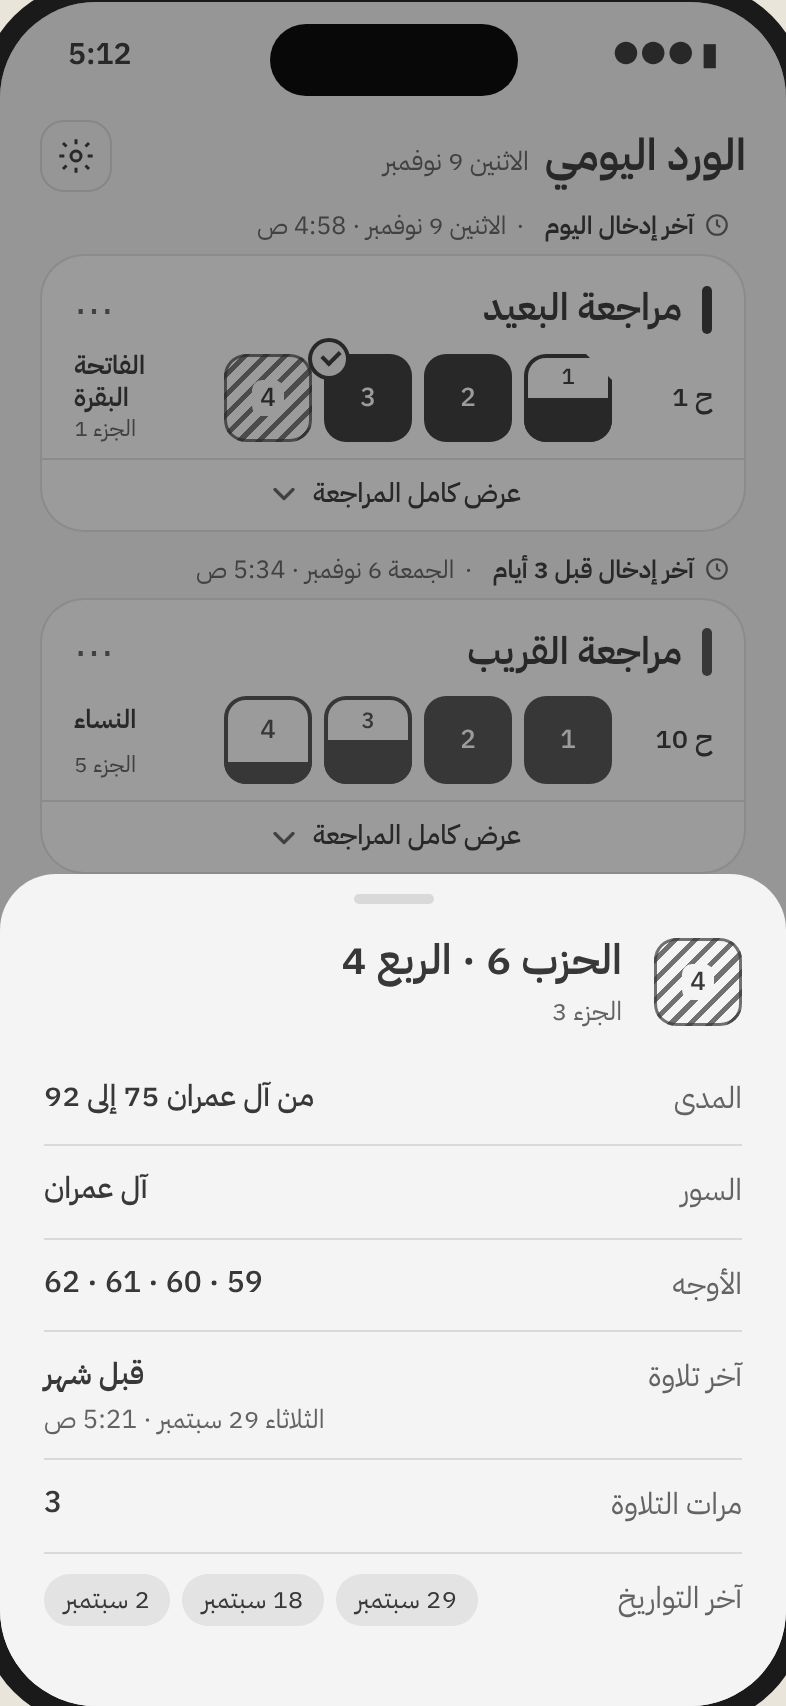
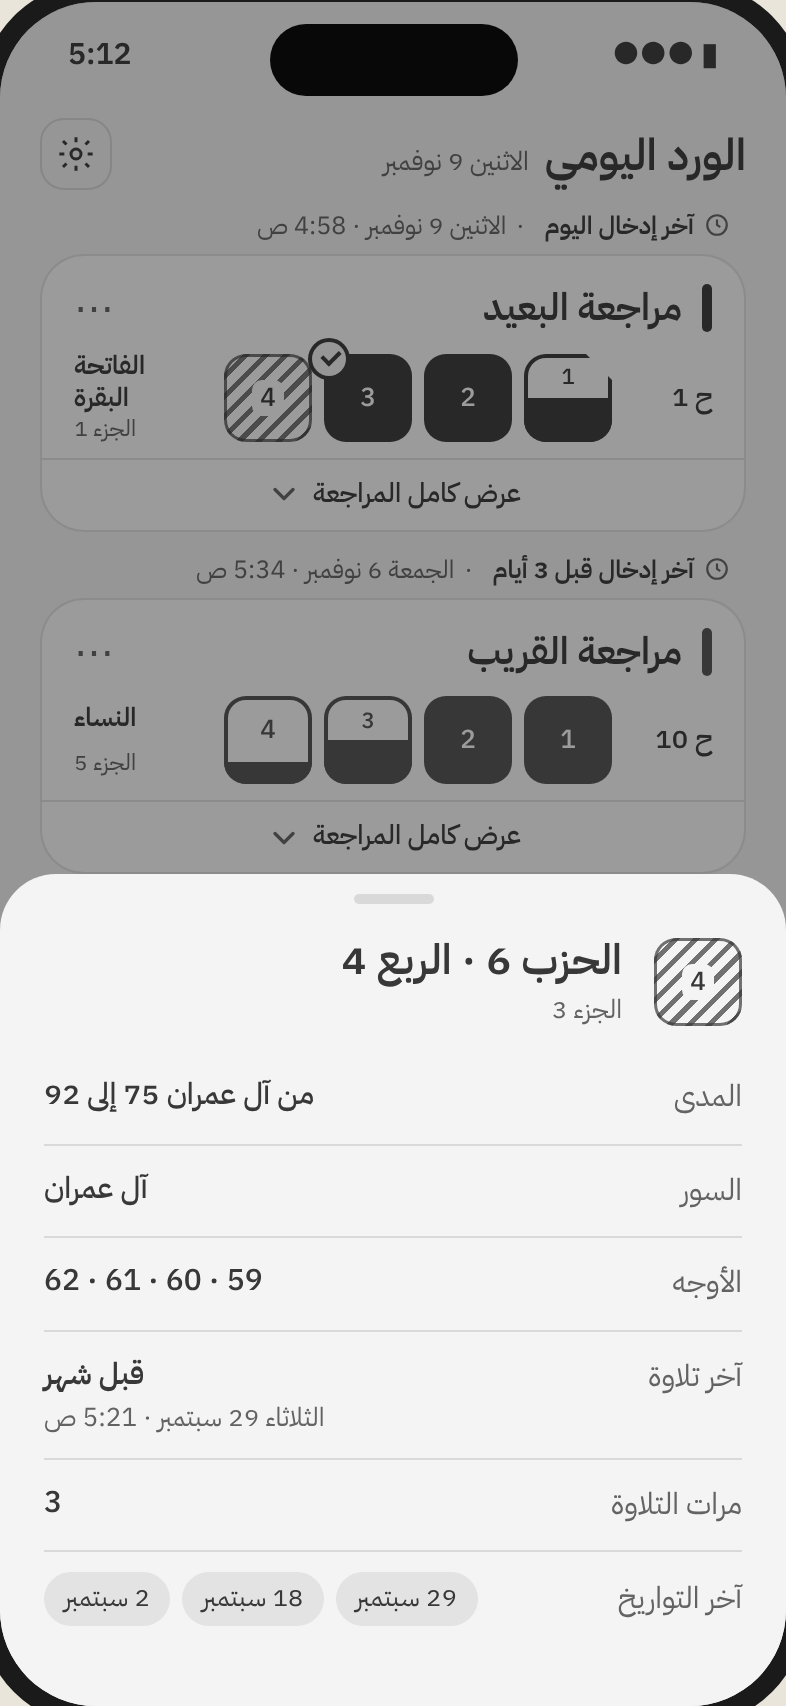
design: ذ17 حجز سطر «آخر إدخال» قبل أول إدخال (م37)
Claude-Session: https://claude.ai/code/session_01RdLZ27SMBEH2WjCpUizFQ9

diff --git a/design/s2.html b/design/s2.html
@@ -95,7 +95,7 @@ still(fig('g2',{id:'s2-ages-near',title:'7 · أرشيف القريب',cap:'ح 1
 /* 3 · آخر إدخال */
 G('durs').innerHTML=[0,1,2,3,6,7,13,14,20,21,29,30,59,60,89,90,180,330,365].map(d=>`<div><span>${N(d)} ${d===1?'يوم':d===2?'يومان':d<=10&&d>=3?'أيام':'يوماً'}</span><b>${rel(d)}</b></div>`).join('');
 still(fig('g3',{id:'s2-stamp',title:'8 · فوق كل بطاقة',cap:'البعيد: آخر إدخال اليوم. والقريب: قبل 3 أيام. ويتحدّث السطر مع كل ضغطة وكل تراجع. والتاريخ وحده يُختصر بنقاط إن ضاق السطر، والمدّة لا تُختصر أبداً.'}),mine());
-{const S=mine({agesOf:r=>r<=36?null:AGE[r]});still(fig('g3',{id:'s2-stamp-none',title:'9 · قبل أول إدخال',cap:'البعيد أُضيف ولم يُظلَّل منه شيء بعدُ: لا سطر فوقه حتى أول ضغطة، فلا «آخر إدخال» يُخبر عن لا شيء. والمسار الفارغ بلا سطر كذلك.'}),S);}
+{const S=mine({agesOf:r=>r<=36?null:AGE[r]});still(fig('g3',{id:'s2-stamp-none',title:'9 · قبل أول إدخال',cap:'البعيد أُضيف ولم يُظلَّل منه شيء بعدُ: لا نصّ فوقه حتى أول ضغطة، فلا «آخر إدخال» يُخبر عن لا شيء. لكن مكان السطر محجوز، فلا تنزل البطاقة تحت الإصبع مع أول ضغطة.'}),S);}
 {const S=mine({agesOf:r=>r<=36?(r<=4?95:r<=20?140:400):AGE[r]});still(fig('g3',{id:'s2-stamp-old',title:'10 · بعد غياب طويل',cap:'«قبل 3 أشهر» ثم التاريخ. وإن كان في سنة سابقة كُتبت السنة.'}),S);}
 
 /* 4 · مفاتيح الرموز */

diff --git a/design/shared/s2.js b/design/shared/s2.js
@@ -48,7 +48,7 @@ function tap(S,r,now='5:12 ص'){const h=S.hist[r]||(S.hist[r]=[]);if(h[0]&&h[0].
 function advance(S,n){S.shift+=n;Object.values(S.hist).forEach(h=>h.forEach(e=>e.d+=n));sync(S);}
 
 /* ── الشاشة ── */
-function stamp(S,t){const e=lastOf(S,t);if(!e)return ''; // لا سطر قبل أول إدخال في المسار
+function stamp(S,t){const e=lastOf(S,t);if(!e)return `<div class="stamp blank" aria-hidden="true">${CLOCK}<b>&nbsp;</b></div>`; // لا نصّ قبل أول إدخال (ذ12)، ومكانه محجوز فلا تقفز البطاقة (ذ17)
   return `<div class="stamp" data-stamp="${t}">${CLOCK}<b>آخر إدخال ${rel(e.d)}</b><span class="sd">${dLong(e.d,S)} · ${e.t}</span></div>`;}
 function emptyCard(t){
   const msg=t==='new'?'لم تحدّد بعدُ الحزب الذي تحفظه.':'لم تُضف إليه شيئاً بعد.';

diff --git a/design/shared/s2.css b/design/shared/s2.css
@@ -17,6 +17,9 @@
 .q.today:before{animation-name:popc}
 @keyframes popc{from{opacity:0}to{opacity:1}}
 
+/* ذ17: سطر «آخر إدخال» محجوز فارغاً قبل أول إدخال */
+.stamp.blank{visibility:hidden}
+
 /* مفاتيح الرموز: الدرجات الخمس، كل معنى على سطرين */
 .keys .krow.k5 .key>span{white-space:normal;line-height:1.35}
 

diff --git a/design/system.md b/design/system.md
@@ -326,7 +326,7 @@ IBM Plex Sans Arabic مضمّن (`App/Resources/Fonts`، OFL). الأحجام ع
 - **هو أحدث تظليل لأيّ ربع في أحزاب المسار الآن.** فإن نُقل حزب انتقل سجلّه معه، وتغيّر السطر في المسارين بحسبه.
 - **المدّة** بالأيام التقويمية: اليوم · أمس · قبل يومين · قبل 3–6 أيام · قبل أسبوع (7–13) · قبل أسبوعين (14–20) · قبل 3 أسابيع (21–29) · قبل شهر (30–59) · قبل شهرين (60–89) · ثم «قبل [ش] أشهر» حيث ش = الأيام ÷ 30 بلا كسر، و«شهراً» من 11 فما فوق (قبل 14 شهراً). والجدول كاملاً في الصفحة.
 - **التاريخ:** ميلادي، واسم اليوم ثم اليوم ثم الشهر بالعربية، والأرقام إنجليزية (القرار 1). والسنة لا تُكتب إلا إن خالفت سنة اليوم («الخميس 6 أغسطس 2025»). **الوقت** بنظام 12 ساعة: «5:34 ص» و«9:40 م». وفي Swift: `Calendar(identifier: .gregorian)` و`Locale(identifier: "ar")` مع `numberingSystem` لاتيني (`ar@numbers=latn`)، كما في ش0 (م4).
-- **قبل أول إدخال في المسار لا يظهر السطر** (ذ12)، وكذا في المسار الفارغ. ويظهر مع أول ضغطة.
+- **قبل أول إدخال في المسار لا يُكتب السطر** (ذ12)، **لكن مكانه محجوز بارتفاعه** (ذ17)، فلا تنزل البطاقة تحت الإصبع مع أول ضغطة فتقع الثانية على ربع آخر. وفي SwiftUI: السطر نفسه بـ `.hidden()` و`.accessibilityHidden(true)`، لا حذفه. والمسار الفارغ (§12.1) بلا سطر ولا حجز، لأن الإضافة تغيّر البطاقة كلها.
 - إن ضاق السطر اختُصر التاريخ وحده بنقاط، والمدّة لا تُختصر. ومع خطّ أكبر يلتفّ التاريخ إلى سطر ثانٍ تحت المدّة.
 - المحفوظ الجديد بلا سطر حتى ش4 (إتمام الأوجه).
 
@@ -366,4 +366,5 @@ IBM Plex Sans Arabic مضمّن (`App/Resources/Fonts`، OFL). الأحجام ع
 | ذ14 | المربّع نفسه في رأس التفاصيل، وتظليل اليوم في «آخر التواريخ» كبسولة بحدّ ونصّ «اليوم» | يربط الورقة بالربع الذي ضُغط، ويميّز اليوم بالشكل لا باللون |
 | ذ15 | معاني الدرجات في المفاتيح بالأيام («خلال 15 يوماً») لا بالأسابيع | الحدود بالأيام في القرار 14، و15 و22 ليست أسابيع تامة |
 | ذ16 | تُخفى علامة موضع التوقّف (الإطار وعلامة الكتاب) في ش2 حتى ش3، والطيّ على أول حزب بلا علامة (ملاحظة المدقّق، حسمه المشرف) | علامة على أول ربع لا تتحرّك مع التظليل تخبر بخطأ، كتقدّم الدورة (ذ10) |
+| ذ17 | سطر «آخر إدخال» قبل أول إدخال فارغ لكن مكانه محجوز (م37، حسمه المشرف) | لا تقفز البطاقة تحت الإصبع، فلا تقع ضغطة خاطئة على ربع آخر |
 

diff --git a/docs/logs/المصمّم.md b/docs/logs/المصمّم.md
@@ -2,7 +2,7 @@
 
 ## الحالة الآن
 - ش2 · المرحلة 1 (التصميم): بُنيت في `design/s2.html` و`design/shared/s2.js` و`s2.css`، والمرجع المكتوب `design/system.md` §13، و44 لقطة `design/shots/s2-*` (22 بالألوان و22 بالرمادي). على الفرع `designer/s2-design`، تنتظر المعاين ثم المدقّق، وتُدمج بالإذن الدائم.
-- قرارات ذوقية ذ10–ذ16 في system.md §13.8 اعتمدها المشرف كلها (ذ16: تُخفى علامة موضع التوقّف في ش2، ملاحظة المدقّق) بتفويض القرار 23 (10 نوفمبر 2026)، وتُذكر في تقرير ختام ش2 «قراراً ذوقياً».
+- قرارات ذوقية ذ10–ذ17 في system.md §13.8 اعتمدها المشرف كلها (ذ16: تُخفى علامة موضع التوقّف في ش2؛ ذ17: سطر «آخر إدخال» محجوز قبل أول إدخال، م37). وأُصلحت م35 وم36 من المعاين بتفويض القرار 23 (10 نوفمبر 2026)، وتُذكر في تقرير ختام ش2 «قراراً ذوقياً».
 - س6 مغلق: تقدّم الدورة مخفيّ في ش2 حتى ش3، وموضع التوقّف كما في ش1.
 - لا شيء من ش3.
 
